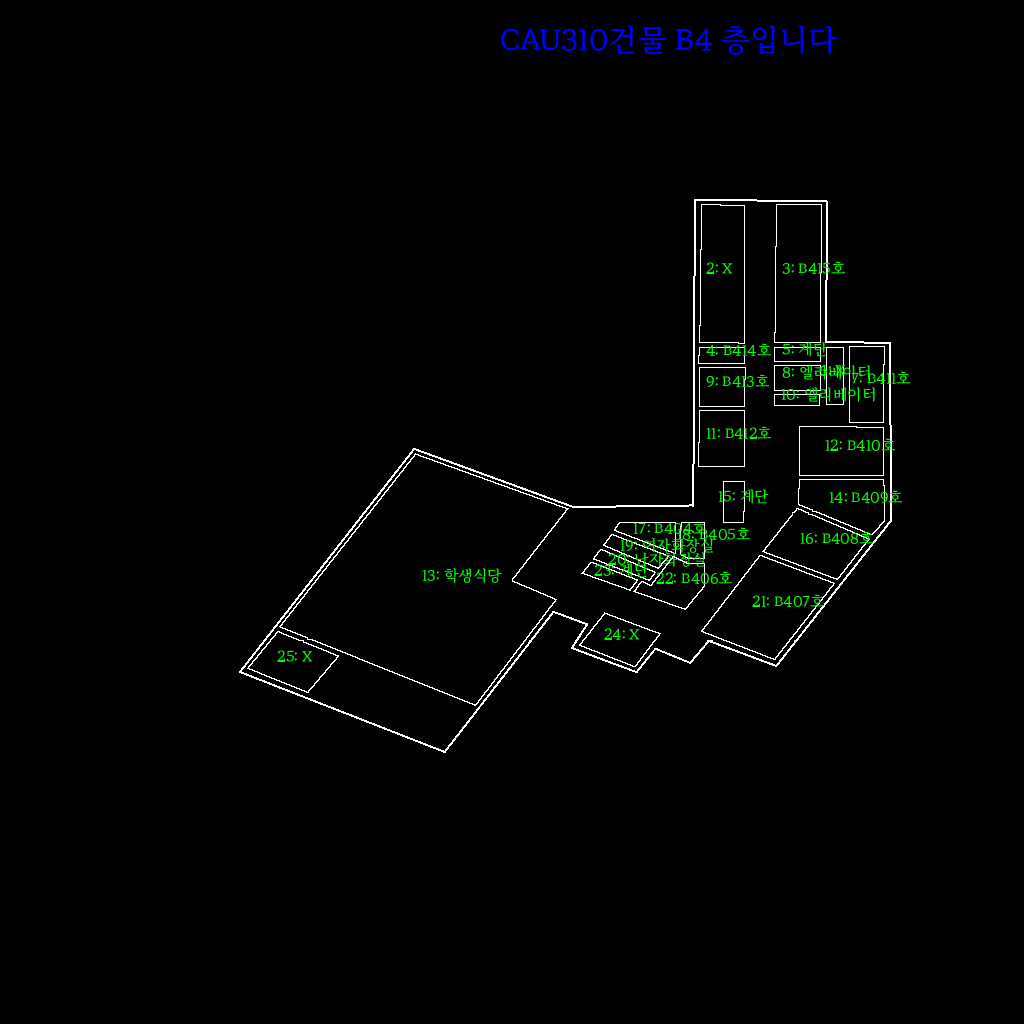
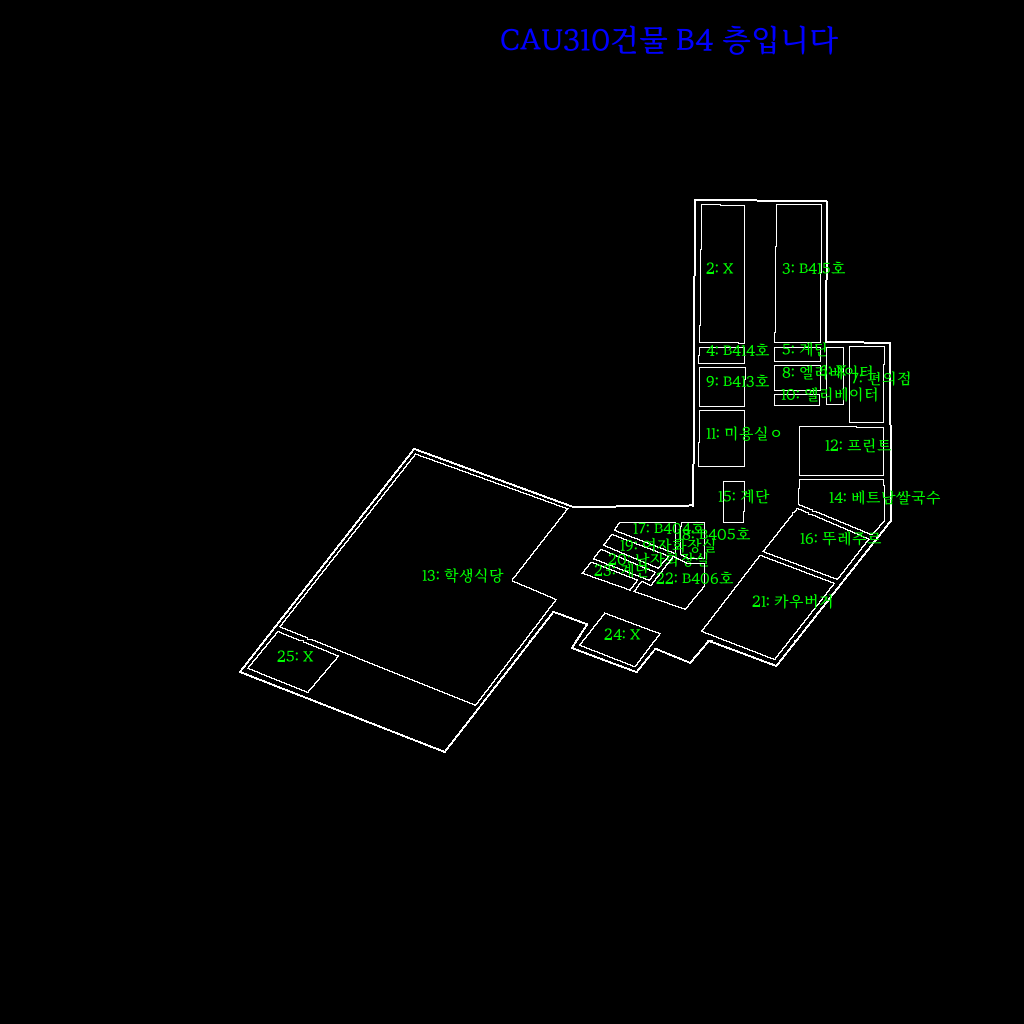
firebase comp

diff --git a/scripts/firebase.py b/scripts/firebase.py
@@ -1,38 +1,28 @@
-import json
 import firebase_admin
 from firebase_admin import credentials
 from firebase_admin import firestore
-import timeit
+
 
 cred = credentials.Certificate(
     "scripts\capston-design7-firebase-adminsdk-p4k7t-1579383ce6.json"
 )
 firebase_admin.initialize_app(cred)
 
-db = firestore.client()
-collectionname = "buildings"
-floor = "B6"
 
-
-def set(item):
-    docs = db.collection("buildings").stream()
-    for doc in docs:
-        print(doc.id, doc.to_dict())
-
-    return (
-        db.collection(collectionname)
-        .document("42485677")
-        .collection("stores")
-        .document(f"42485677_{floor}")
-        .set(item)
-    )
-
-
-def get(buildingname):
+def put_firebase(filename, item):
+    db = firestore.client()
+    buildingname = filename[:-3]
+    floor = filename[-2:]
     docs = db.collection("buildings").stream()
     for doc in docs:
         if doc.to_dict()["BuildingName"] == buildingname:
-            print(doc.id)
+            return (
+                db.collection("buildings")
+                .document(doc.id)
+                .collection("stores")
+                .document(f"{doc.id}_{floor}")
+                .set(item)
+            )
 
 
 # f = open(f"result\CAU310\data\CAU310_{floor}.json")
@@ -46,4 +36,4 @@ def get(buildingname):
 #     dict[str(item["id"])] = item["caption"]
 # print(dict)
 # set(dict)
-print(get("CAU310"))
+# get("CAU310")

diff --git a/scripts/edit_json.py b/scripts/edit_json.py
@@ -2,7 +2,7 @@ import json
 import os
 import cv2
 import numpy as np
-
+from scripts.firebase import put_firebase
 from PIL import ImageFont, ImageDraw, Image
 
 
@@ -20,12 +20,16 @@ def update_caption(newdata, buildingname):
     file_path = f"result/{buildingname[:-3]}/data/{buildingname}.json"
     data = load_json(file_path)
     newdata = newdata["newData"]
+    f_data = {}
     for i in range(len(data)):
-        if data[i]["id"] == newdata[i]["id"]:
-            data[i]["caption"] = newdata[i]["caption"]
-            data[i]["move_up"] = int(newdata[i]["move_up"])
-            data[i]["move_down"] = int(newdata[i]["move_down"])
+        data[i]["caption"] = newdata[i]["caption"]
+        data[i]["move_up"] = int(newdata[i]["move_up"])
+        data[i]["move_down"] = int(newdata[i]["move_down"])
+        if data[i]["id"] in [-2, 1] or data[i]["caption"] == "X":
+            continue
+        f_data[str(data[i]["id"])] = data[i]["caption"]
     save_json(file_path, data)
+    put_firebase(buildingname, f_data)
     return False
 
 

diff --git a/scripts/mask_to_json.py b/scripts/mask_to_json.py
@@ -4,6 +4,7 @@ import numpy as np
 import math
 import json
 from PIL import ImageFont, ImageDraw, Image
+from scripts.firebase import put_firebase
 
 
 def myPutText(src, text, pos, font_size, font_color):
@@ -197,7 +198,10 @@ def mask_to_json(buildingname):
 
     # JSON 파일로 저장할 데이터 생성
     edge_data = []
+    dict = {}
     for id, pixels in components.items():
+        if id not in [-2, 1]:
+            dict[str(id)] = f"{id}"
         edge_data.append(
             {
                 "id": id,
@@ -207,7 +211,7 @@ def mask_to_json(buildingname):
                 "move_down": 0,
             }
         )
-
+    put_firebase(buildingname, dict)
     # JSON 파일로 저장
     with open(os.path.join(outputurl, buildingname + ".json"), "w") as file:
         json.dump(edge_data, file, indent=4)

diff --git a/scripts/predict.py b/scripts/predict.py
@@ -63,9 +63,9 @@ def read_image(image_path, mask=False):
 
 # plt.show()
 
-colormap = loadmat("scripts\matlab.mat")["colormap"]
-colormap = colormap * 100
-colormap = colormap.astype(np.uint8)
+# colormap = loadmat("scripts\matlab.mat")["colormap"]
+# colormap = colormap * 100
+# colormap = colormap.astype(np.uint8)
 
 
 def infer(model, image_tensor):
@@ -170,4 +170,4 @@ def plot_predictions(buildingname):
     cv2.imwrite(mask_file, cv2.cvtColor(prediction_colormap, cv2.COLOR_RGB2BGR))
 
 
-plot_predictions("CAU208_01")
+# plot_predictions("CAU208_01")
